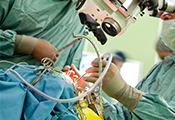
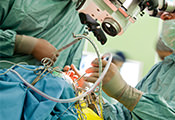
Optimized images

diff --git a/index.html b/index.html
@@ -135,7 +135,7 @@
 
               <!-- 1 big image -->
                 <div class="span5">
-                  <img class="bigImage" src="img/machine1.png" />
+                  <img class="bigImage" src="img/machine1.jpg" />
                 </div>
                 <!-- 2 small images -->
                 <div class="span3">
